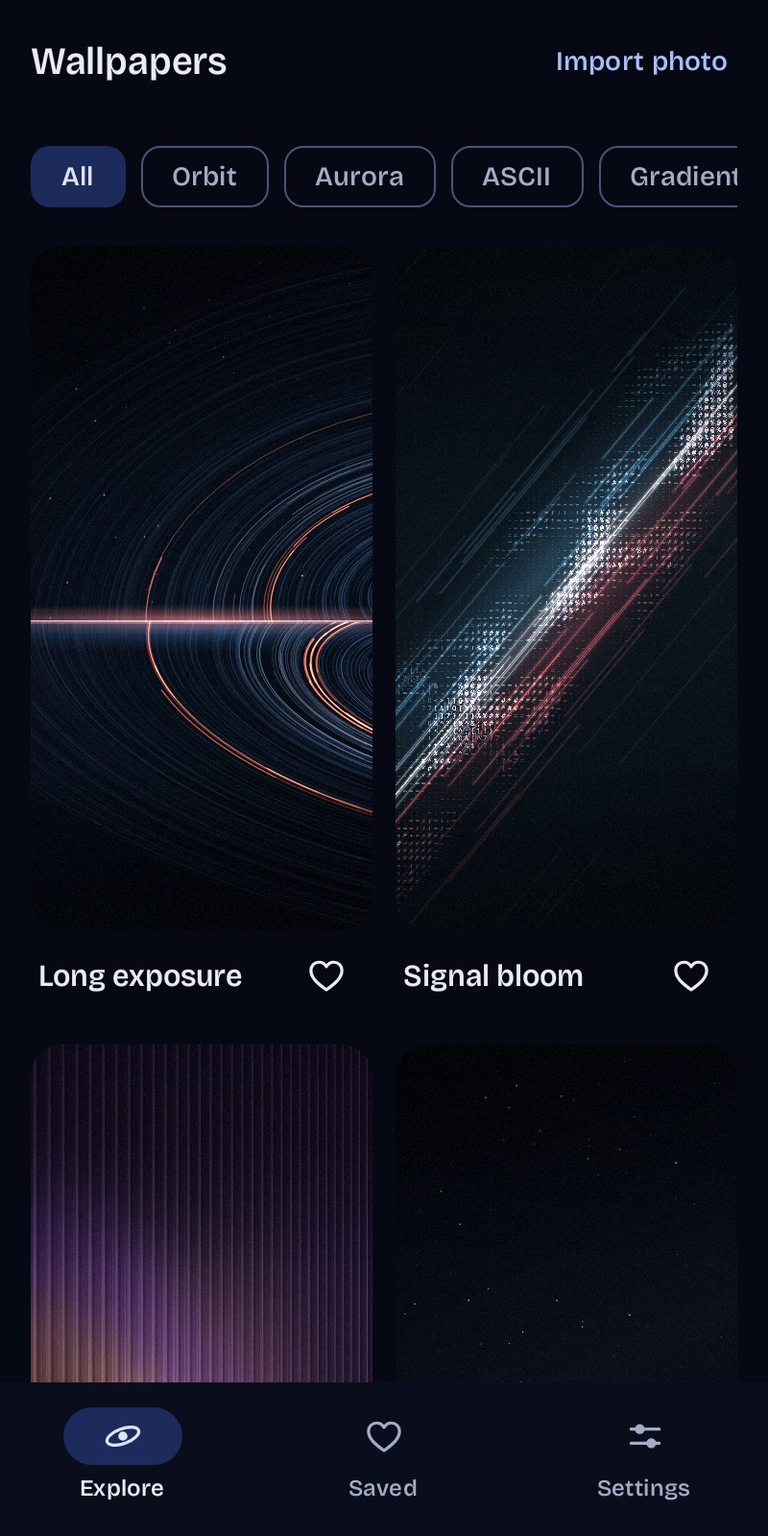
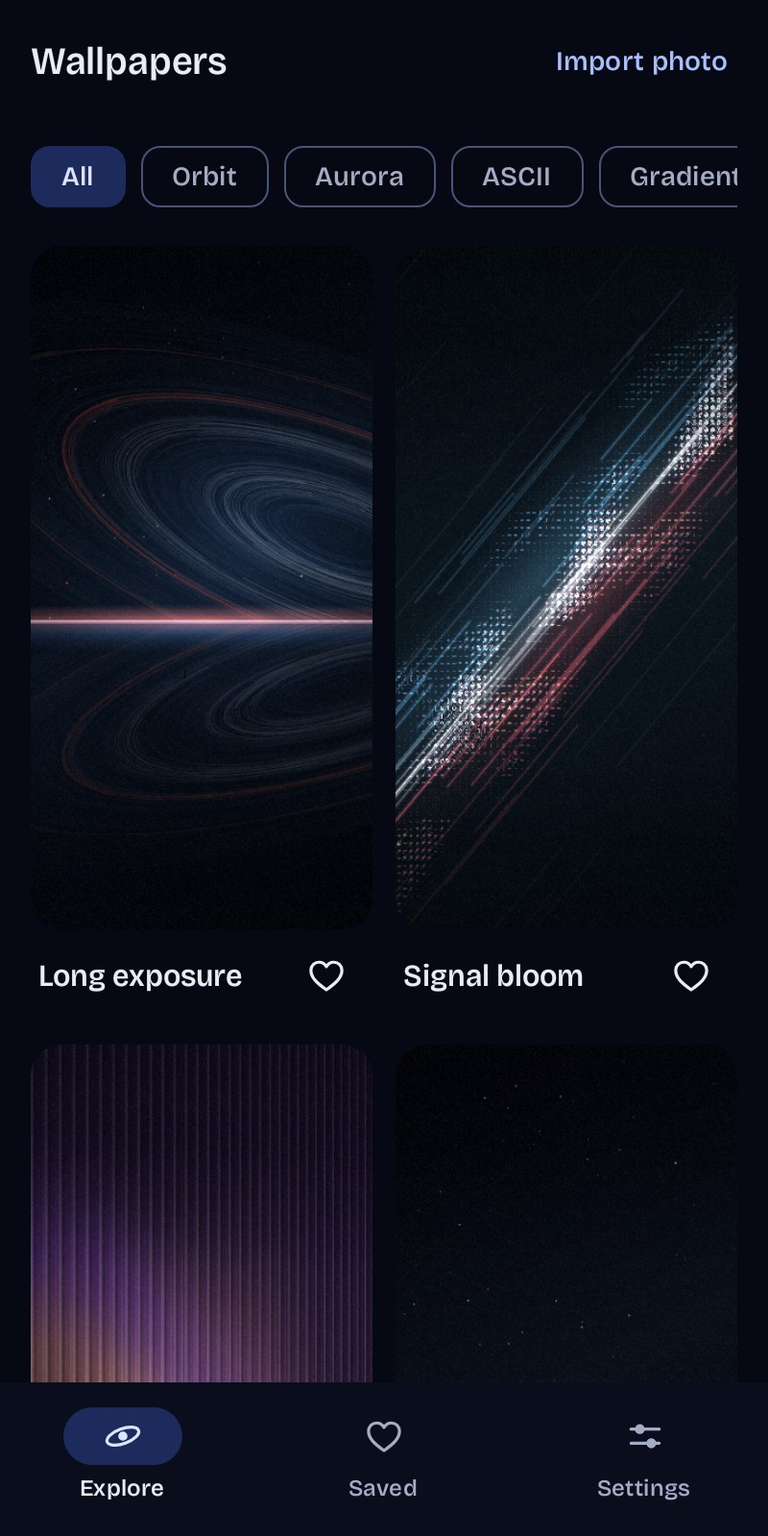
Show the wallpaper workflow in three screenshots and shorten the guides

diff --git a/tools/store_assets.py b/tools/store_assets.py
@@ -37,6 +37,13 @@ def screenshots():
         ("glass-prism-night", PREVIEWS), ("ascii-signal-night", PREVIEWS),
         ("gallery-night", SCREENS), ("gallery-light", SCREENS), ("editor-home-night", SCREENS),
     ]
+    editor = os.path.join(SCREENS, "editor-light.png")
+    if os.path.exists(editor):
+        docs_screens = os.path.join(ROOT, "docs", "screenshots")
+        os.makedirs(docs_screens, exist_ok=True)
+        with Image.open(editor) as image:
+            image.convert("RGB").save(os.path.join(docs_screens, "editor.jpg"), quality=90, subsampling=0, optimize=True)
+
     for index, (name, folder) in enumerate(picks, 1):
         path = os.path.join(folder, name + ".png")
         if not os.path.exists(path):

diff --git a/docs/USER_GUIDE.md b/docs/USER_GUIDE.md
@@ -1,82 +1,49 @@
 # Using Phosphor
 
-[Documentation index](README.md) · [Build and install](GETTING_STARTED.md) · [Android compatibility](ANDROID_COMPATIBILITY.md)
-
 ## Apply a wallpaper
 
-1. Open **Explore** and tap a wallpaper. Use the collection chips to narrow the grid.
-2. Watch the live preview as you adjust the controls. On a phone, use **Expand preview** for a larger view. The home-screen preview button overlays sample icons and labels.
-3. Choose the appearance and motion settings you want, then tap **Set live wallpaper**.
-4. Finish in Android's wallpaper picker and select one of the destinations your phone offers.
+| Explore | Editor | Android picker |
+| --- | --- | --- |
+| Tap a collection, then a wallpaper. | Check the artwork behind sample icons, then tap **Set live wallpaper**. | Choose where to apply it and confirm. |
 
-Editing changes a draft. The active wallpaper keeps its existing settings until the draft is applied. Canceling the system preview leaves the active configuration unchanged.
+<img src="store/screenshots/08-gallery-light.jpg" width="220" alt="Light-theme Explore gallery showing the All, Orbit, Aurora and ASCII filters"> <img src="screenshots/editor.jpg" width="220" alt="Long exposure open in the wallpaper editor">
 
-Some system pickers do not report whether you applied the wallpaper. If you chose Phosphor and the app asks, tap **Save wallpaper settings** to commit the draft. If you canceled the picker, leave that confirmation alone. Home and lock screens share one applied Phosphor configuration; separate designs are not implemented.
+Edits stay in your draft until you apply them. If Android leaves the result unclear, tap **Save wallpaper settings** only after choosing Phosphor in the picker. Home and lock screens share the applied design.
 
-The heart beside a wallpaper's title saves a look immediately. In the editor, **Save look** lets you name a version with its dimming, motion, and photo framing settings. Open a look from **Saved** to adjust it, update it, or save another variation. Saved and Explore remember their own collection filters.
+## Keep a look or a photo
 
-## Rotate saved looks
-
-Save at least two looks, then open **Saved → Rotation**. Choose **Daily** to cycle through selected looks in the numbered order at local midnight. Deselect and reselect a look to move it to the end. Choose **Day and evening** to assign a look and local start time to each period. Tap **Save**, and set Phosphor as your live wallpaper if needed.
-
-Rotation switches while the wallpaper is visible. If the screen is off or another app covers it, the scheduled look appears when you return. Editing a draft leaves the schedule alone. Manually applying a look keeps it until the next scheduled change. Removing a selected look skips it, and turning rotation off keeps the current wallpaper.
-
-## Appearance
-
-| Control | Effect |
+| To… | Use… |
 | --- | --- |
-| Scene control | Changes the composition, such as ring angle in Ringfall, curtain width in Northern veil, or rib spacing in Fluted glass. For photos, Floating lights adjusts the number of motes. |
-| Color palette | Use the original procedural colors or choose Lagoon or Ember. Save a look to keep its palette and composition together. |
-| Calm the artwork | Darkens the wallpaper so icons and widgets stand out. |
+| Bookmark a wallpaper | The heart beside its title in **Explore**. |
+| Keep a tuned version | **Save look** in the editor. Reopen it from **Saved** to update it or **Save a copy**. |
+| Rotate saved looks | Save at least two looks. In **Saved → Rotation**, choose **Daily** to cycle at midnight or **Day and evening** to set two start times. The next look appears when the wallpaper is visible. |
+| Frame a photo | **Explore → Import photo**. Choose a JPEG, PNG, or WebP, then move the target in **Photo framing**. Save the look to keep its crop. |
+| Export the current look | **Save a still image**. Pick a location for the 1080 × 2400 PNG. |
 
-Built-in wallpapers use dark palettes in the gallery, editor, and Android wallpaper picker.
+Phosphor keeps a private copy of each imported photo. Clearing app storage or uninstalling removes these copies and saved looks.
 
-**Settings → App appearance** controls the app's System/Light/Dark theme separately. **Use your phone's colors** applies Material You colors to the app on Android 12+; it does not recolor the wallpaper. Phosphor's own app palette is the default.
+## Tune a scene
 
-## Echo trace and music
+Use the scene slider to change the composition, such as the ring angle in Ringfall or the rib spacing in Fluted glass. Under **Color palette**, choose the original colors, Lagoon, or Ember.
 
-Open **Explore → ASCII → Echo trace**, turn on **Motion → React to music**, and allow Android’s microphone permission. Play music on the device. Bass peaks rise on the left, treble peaks rise on the right, and older peaks trail up the screen. **Trace height** adjusts their size. Tap **Set live wallpaper** to use it on your phone, or **Save look** to keep the setting for rotation.
-
-Phosphor reads frequency levels from Android’s playback visualizer. The levels stay briefly in memory. The preview shows when it receives a signal. During silence or on an unsupported output, Echo trace returns to its ambient animation. Capture pauses when hidden, in Still mode, at zero speed, and while saving battery. Gallery tiles and PNG exports use the ambient artwork.
+For **ASCII → Echo trace**, enable **Motion → React to music** and grant audio permission. Play music to see bass on the left and treble on the right. Android supplies playback frequencies. Silence, gallery thumbnails, and still exports use the ambient design.
 
 ## Motion and battery
 
-| Control | Effect |
+| For this effect | Adjust |
 | --- | --- |
-| Speed | Sets ambient animation speed. Zero holds the scene at its current phase. |
-| Intensity | Changes movement range and artwork detail. |
-| Home-screen parallax | Nearby layers travel farther than distant scenery as the camera drifts. On supported launchers they ease into place after a page swipe. Increase Intensity for a wider sweep. |
-| Tilt parallax | Enable this under Motion to move the viewpoint by tilting your phone from its resting angle. Requires an accelerometer, Home-screen parallax, and Speed above zero. Pauses in battery-saving mode. |
-| Still mode | Holds the artwork and its parallax layers still. |
-| Frame rate | Selects 15, 30, or 60 fps, subject to power and visibility limits. |
-| Light up on wake | Gradually reveals the artwork on screen-on. The replay button previews the wake effect. |
-| Lock and unlock animation | Enables the separate settling/reveal treatment around lock state changes. |
-| Save battery when low | At 20% or less while unplugged, reduces motion and caps at 15 fps; at 5% or less, holds still. |
+| Quieter artwork behind icons | **Calm the artwork** to darken it. |
+| Slower or subtler movement | Lower **Speed** or **Intensity**. **Still mode** freezes the scene. |
+| Depth as you swipe or tilt | Enable **Home-screen parallax**. Add **Tilt parallax** on phones with an accelerometer. Both need motion enabled. |
+| A reveal when the screen wakes | Enable **Light up on wake**. Tap replay to preview it. **Lock and unlock animation** controls the lock transition. |
+| Smoother motion or fewer frames | Choose **15**, **30**, or **60 fps** under **Frame rate**. |
 
-System Battery Saver reduces motion and caps animation at 15 fps even if **Save battery when low** is off. The visible lock screen is also capped at 15 fps. Hidden or screen-off wallpapers stop their animation loop, and Android's disabled-animation preference makes the artwork still. Wake effects can be suppressed while saving energy.
+Battery Saver and the visible lock screen cap animation at 15 fps. With **Save battery when low**, an unplugged phone slows at 20% and holds still at 5%. Animation stops when hidden or screen-off.
 
-These are rendering policies; a battery-life percentage has not been measured. Screen-off/always-on-display visibility and the events delivered on wake depend on your phone.
+## Change colors
 
-## Import your own image
+**Settings → App appearance** changes the app theme. **Use your phone’s colors** follows the Android 12+ system palette. Use the editor’s **Color palette** to recolor a wallpaper.
 
-Tap **Import photo** in Explore and select a JPEG, PNG, or WebP image through Android's document picker. Phosphor stores a bounded, orientation-corrected PNG copy in private app storage, so later losing access to the original document does not break the import.
+For launcher colors, open **Wallpaper & style** on Pixel or **Wallpaper and style → Color palette** on Samsung. If your launcher only offers colors for photos, try applying an exported still, choosing its palette, then reapplying Phosphor.
 
-In **Photo framing**, move the target on the full photo to your subject, or use the horizontal and vertical focus sliders. The live preview shows the crop with room around its edges for drift. The wallpaper layers floating light over the photo. Save a look to keep this image and framing when you import another photo.
-
-Imports stay on the device and are not included in cloud backup. Clearing app storage or uninstalling deletes private copies and settings. Keep your original images elsewhere if you want to retain them.
-
-## Export a still
-
-In the editor, tap **Save a still image** and select a destination in Android's document picker. Phosphor writes a watermark-free **1080 × 2400 PNG** at a fixed animation time using your current settings and photo framing.
-
-## Phone colors and common limitations
-
-Phosphor supplies representative wallpaper colors and light/dark hints to Android. Your phone and launcher decide how to use them for labels, palettes, and themed icons.
-
-- **Pixel:** look in **Wallpaper & style** for palette options.
-- **Samsung:** look in **Wallpaper and style → Color palette**. A Galaxy Themes package is a separate format and is not included.
-- **No live wallpaper palette offered:** try exporting a still and choosing a palette from it, then reapply Phosphor. This is a manual workaround and may not persist on every firmware.
-- **Checking depth on a single-page launcher.** Enable **Home-screen parallax**, turn off Still mode, and set Speed above zero to see the ambient drift. Page-to-page movement also requires a launcher that supplies scrolling offsets.
-- **No independent lock-screen option:** use the destinations the system picker provides.
-
-See [Android compatibility](ANDROID_COMPATIBILITY.md) for detailed behavior. For a reproducible problem, use the [bug report checklist](../CONTRIBUTING.md#report-a-bug).
+[Android compatibility](ANDROID_COMPATIBILITY.md) · [Build and install](GETTING_STARTED.md) · [Documentation index](README.md)

diff --git a/README.md b/README.md
@@ -1,63 +1,25 @@
 # Phosphor
 
-Living color for Android. An offline, open-source live wallpaper app [made by sush.dev](https://sush.dev?utm_source=phosphor).
+An offline live wallpaper studio for Android. Choose from 17 animated designs, or give one of your photos a gentle drift.
 
-![Phosphor Afterglow mark: a violet light trail doubles back in ember orange against midnight blue](docs/store/feature-graphic-1024x500.jpg)
+| Browse the collection | Tune the wallpaper | Preview behind icons |
+| :---: | :---: | :---: |
+| [<img src="docs/store/screenshots/07-gallery-night.jpg" width="240" alt="Explore gallery with wallpaper tiles and collection filters">](docs/store/screenshots/07-gallery-night.jpg) | [<img src="docs/screenshots/editor.jpg" width="240" alt="Wallpaper editor with a live preview and appearance controls">](docs/screenshots/editor.jpg) | [<img src="docs/store/screenshots/09-editor-home-night.jpg" width="240" alt="Expanded wallpaper preview with sample home-screen icons">](docs/store/screenshots/09-editor-home-night.jpg) |
 
-Phosphor draws its wallpapers on your phone: long-exposure orbits, aurora curtains, beams of characters, gradients, glass, filaments, and etched textures. Each procedural wallpaper uses a dark palette.
+Open **Explore**, tap a design, then choose **Set live wallpaper**. Android’s picker lets you choose where to apply it. **Save look** keeps your palette and tuning for later or for a rotation. **Save a still image** exports a 1080 × 2400 PNG.
 
-## What you can do
+## Run it
 
-- Choose from **17 procedural presets across seven collections**, or frame an imported photo and give it gentle drift and floating light.
-- Adjust each scene’s composition and choose a color palette. Tune speed, intensity, frame rate, and how far the artwork fades into its background. Check the result in a live preview with an optional home-screen overlay.
-- Watch the scenes drift on their own. Foreground layers travel farther as you swipe between home screens. Enable Tilt parallax under Motion to move the viewpoint by tilting your phone, even on a single home screen.
-- Use wake reveals, lock and unlock animation, or still mode.
-- Save favorites, keep tuned looks with their settings and photo framing, and export a **1080 × 2400 PNG** in the selected treatment.
-- Enable **React to music** on Echo trace to turn local playback frequencies into a scrolling ASCII waterfall. Android asks for audio permission when you enable it.
-- Rotate selected saved looks daily, or choose separate looks and start times for day and evening.
-- Keep rendering bounded: animation stops while hidden or screen-off, the visible lock screen is capped at 15 fps, and battery policies reduce motion at low charge.
-
-No account, ads, analytics, network permission, broad photo-library permission, or cloud backup. Images are imported through Android's document picker and copied to private app storage. The optional creator link opens in your browser.
-
-## Try it
-
-Phosphor requires **Android 8.1 (API 27) or newer** and a device that supports live wallpapers. It targets API 36. Build and install a debug APK using the [getting started guide](docs/GETTING_STARTED.md), then follow the [user guide](docs/USER_GUIDE.md) to apply a wallpaper.
-
-Pixel and Samsung One UI are intended targets. Wallpaper destinations, palette choices, and lock-screen behavior depend on the OS and launcher. See [Android compatibility](docs/ANDROID_COMPATIBILITY.md) for supported behavior and device checks; implementation support does not mean every device has been tested.
-
-## Build from source
-
-Use **JDK 17**, Android SDK **Platform 36**, and **Build Tools 35.0.0**. The checked-in wrapper supplies Gradle 8.13. Set `JAVA_HOME` to your JDK and `ANDROID_HOME` to your SDK, or configure the SDK in an untracked `local.properties`.
-
-From the repository root on macOS/Linux:
+Connect an **Android 8.1+** device with live wallpaper support. Build with **JDK 17**, **Android SDK 36**, and **Build Tools 35.0.0**.
 
 ```sh
-./gradlew testDebugUnitTest lintDebug assembleDebug
+./gradlew installDebug
 ```
 
-On Windows PowerShell:
+On Windows, use `.\gradlew.bat installDebug`. [Setup and troubleshooting](docs/GETTING_STARTED.md) · [Debug APKs from main](docs/RELEASING.md#debug-apks-from-main)
 
-```powershell
-.\gradlew.bat testDebugUnitTest lintDebug assembleDebug
-```
+[User guide](docs/USER_GUIDE.md) · [Architecture](docs/ARCHITECTURE.md) · [Testing](docs/TESTING.md) · [All docs](docs/README.md) · [Contributing](CONTRIBUTING.md)
 
-The APK is written to `app/build/outputs/apk/debug/app-debug.apk`. The first build needs internet access to download Gradle and dependencies; the installed app works offline. See [setup and troubleshooting](docs/GETTING_STARTED.md) for SDK installation, Android Studio, and device installation.
+Phosphor works without an account, ads, analytics, or network permission. Imported photos stay in private app storage.
 
-## Documentation
-
-| If you want to… | Read |
-| --- | --- |
-| Build, run, or fix a local setup | [Getting started](docs/GETTING_STARTED.md) |
-| Apply, customize, import, or export a wallpaper | [User guide](docs/USER_GUIDE.md) |
-| Find your way around the code | [Architecture](docs/ARCHITECTURE.md) |
-| Run tests or generate previews and store assets | [Testing](docs/TESTING.md) |
-| Submit a fix, new preset, or bug report | [Contributing](CONTRIBUTING.md) |
-| Prepare a version, sign a build, or tag a release | [Releasing](docs/RELEASING.md) |
-
-The [documentation index](docs/README.md) also links the design system, platform checklist, and historical validation results.
-
-## Artwork and licensing
-
-The source code and original procedural artwork are [MIT licensed](LICENSE). Bricolage Grotesque is bundled under the [SIL Open Font License 1.1](app/src/main/assets/licenses/bricolage-grotesque-OFL.txt).
-
-`ref-img/` contains tracked inspiration images, but is outside Android's source sets and is not packaged in the app. Those files have no accompanying redistribution licenses; the repository's MIT license does not grant rights to them or to personal imports. Do not use them in distributed app or store assets without establishing permission. Contributed third-party assets need provenance and a compatible license.
+Made by [sush.dev](https://sush.dev?utm_source=phosphor). [Code and original artwork (MIT)](LICENSE) · [Bricolage Grotesque (OFL)](app/src/main/assets/licenses/bricolage-grotesque-OFL.txt). Reference images in `ref-img/` and personal imports are outside the MIT grant.

diff --git a/docs/ARCHITECTURE.md b/docs/ARCHITECTURE.md
@@ -14,7 +14,7 @@ Paths below are relative to [`app/src/main/java/dev/sush/phosphor/`](../app/src/
 | Models | [`model/WallpaperModels.kt`](../app/src/main/java/dev/sush/phosphor/model/WallpaperModels.kt) defines settings, scene families, and the dark preset catalog. |
 | App flow | [`ui/PhosphorApp.kt`](../app/src/main/java/dev/sush/phosphor/ui/PhosphorApp.kt) coordinates navigation, favorites, drafts, and document/system picker results. |
 | Screens | `ui/Gallery.kt`, `ui/Editor.kt`, and `ui/SettingsScreen.kt` provide browsing, editing, and app preferences. |
-| Preview | [`ui/WallpaperPreview.kt`](../app/src/main/java/dev/sush/phosphor/ui/WallpaperPreview.kt) hosts animated Canvas previews and cached gallery stills. |
+| Preview | [`ui/WallpaperPreview.kt`](../app/src/main/java/dev/sush/phosphor/ui/WallpaperPreview.kt) hosts the editor preview. [GalleryThumbnail.kt](../app/src/main/java/dev/sush/phosphor/ui/GalleryThumbnail.kt) loads stills for Explore and Saved. |
 | Artwork | [`render/WallpaperRenderer.kt`](../app/src/main/java/dev/sush/phosphor/render/WallpaperRenderer.kt) resolves settings and dispatches to scene functions. `RenderKit.kt` supplies shared drawing helpers and frame inputs. |
 | Motion | The renderer combines elapsed scene time and launcher offsets. `platform/WallpaperReveal.kt` tracks lock/unlock transitions. |
 | Platform | [`platform/PhosphorWallpaperService.kt`](../app/src/main/java/dev/sush/phosphor/platform/PhosphorWallpaperService.kt) owns Android engines, surfaces, wallpaper colors, and lifecycle handling. |
@@ -28,13 +28,15 @@ Other useful locations are [`app/src/test/`](../app/src/test) for JVM tests, [`a
 
 `WallpaperSettings` is an immutable snapshot. `WallpaperCatalog` resolves stable preset IDs; unknown IDs fall back to the first preset. Existing IDs must remain stable or be migrated because settings and favorites persist them.
 
-The normal apply flow is:
+```mermaid
+flowchart LR
+    Explore["Preset or saved look"] --> Draft["Editor draft"]
+    Draft -->|Set live wallpaper| Picker["Android picker"]
+    Picker -->|Apply| Active["Active wallpaper"]
+    Picker -->|Cancel| Draft
+```
 
-1. Selecting a catalog preset creates a draft based on the active settings. Selecting a saved look restores its snapshot. Editor changes are saved under the `preview` key in the `phosphor` preferences.
-2. The app preview and an Android engine with `isPreview == true` read the draft. Active engines read the `active` key.
-3. **Set live wallpaper** saves the draft and opens Android's direct preview, with a general live-wallpaper chooser fallback.
-4. On API 36, the engine's `onApplyWallpaper` commits the draft. The app also commits a successful direct picker result; a picker without a reliable result leaves a manual confirmation path.
-5. A settings listener reloads the appropriate snapshot and refreshes rendering/colors. Canceling without confirmation leaves active settings intact.
+Android’s preview engine reads the draft. The applied engine listens to active settings. On API 36, `onApplyWallpaper` commits the draft. A successful direct picker result also commits it. Pickers with an ambiguous result leave a **Save wallpaper settings** action in the editor.
 
 `SettingsStore` encodes and decodes settings, including bounded image focus coordinates. Active and draft settings with a retired preset ID render Long exposure with the existing tuning. `platform/SavedLooks.kt` uses the same codec for named snapshots and migrates legacy favorite IDs on first load. Saved looks retain their original preset IDs, and the gallery skips looks whose artwork is unavailable. Saved looks, app theme, dynamic color, and the latest import live in `phosphor_ui`. `LookRotation` resolves saved look IDs into local calendar intervals. A visible, interactive live engine schedules a callback for the next boundary and writes the selected snapshot and interval stamp together. Preview engines only read the draft.
 
@@ -44,7 +46,7 @@ The normal apply flow is:
 
 Each live wallpaper engine owns its renderer, elapsed phase, and launcher offsets. The system preview and applied wallpaper can render independently.
 
-The editor uses an animated view. Gallery tiles cache a still bitmap, invalidating when content, treatment, or dimensions change, so scrolling does not continually replay procedural drawing. Exports create a temporary renderer and bitmap and release both after writing. Rendering uses a hardware Canvas when available, with a software fallback.
+The editor draws live frames in a View. Gallery tiles share a byte-limited bitmap cache keyed by preset, settings, and thumbnail size. A single background worker renders cache misses. Exports draw at full size with a temporary renderer.
 
 ## Scheduling, power, and cleanup
 

diff --git a/docs/README.md b/docs/README.md
@@ -1,27 +1,10 @@
 # Phosphor documentation
 
-Return to the [project overview](../README.md).
+| Use the app | Work on the app | Ship a release |
+| --- | --- | --- |
+| [Build and install](GETTING_STARTED.md) | [Architecture and data flow](ARCHITECTURE.md) | [Release and signing guide](RELEASING.md) |
+| [Wallpaper and photo guide](USER_GUIDE.md) | [Design system](DESIGN_SYSTEM.md) | [Changelog](../CHANGELOG.md) |
+| [Android and launcher compatibility](ANDROID_COMPATIBILITY.md) | [Motion and rendering decisions](DESIGN_PRINCIPLES.md) | [Validation history](VALIDATION.md) |
+| | [Tests and screenshot generation](TESTING.md) | |
 
-## Build and use
-
-- [Getting started](GETTING_STARTED.md): prerequisites, SDK setup, building, installation, and troubleshooting.
-- [User guide](USER_GUIDE.md): applying a wallpaper, appearance and motion controls, imports, exports, and common device limitations.
-
-## Develop and maintain
-
-- [Contributing](../CONTRIBUTING.md): change workflow, artwork requirements, bug reports, and asset licensing.
-- [Architecture](ARCHITECTURE.md): source map, shared rendering, draft/active settings, engine lifecycle, and local data.
-- [Testing](TESTING.md): automated checks, reports, opt-in screenshots, store asset generation, and manual validation.
-- [Releasing](RELEASING.md): versions, signing, tags, CI artifacts, and distribution.
-- [Changelog](../CHANGELOG.md): changes grouped by app version.
-
-## Design and platform behavior
-
-- [Design system](DESIGN_SYSTEM.md): color, typography, spacing, icons, motion, and wallpaper readability.
-- [Design and motion decisions](DESIGN_PRINCIPLES.md): rationale for layout, interaction, scheduling, and battery policies.
-- [Android compatibility](ANDROID_COMPATIBILITY.md): wallpaper colors, system picker behavior, manufacturer limits, and the physical-device checklist.
-- [Validation history](VALIDATION.md): recorded results from earlier builds, including checks still outstanding. It is a historical record, not a statement that the current commit passed those checks.
-
-## Update the docs with the implementation
-
-Keep setup requirements aligned with the Gradle files and [Android workflow](../.github/workflows/android.yml), control names aligned with the UI, and validation claims tied to a date and commit. Put repeatable commands in the testing guide and observed results in the validation history. Link new guides here so readers can find them.
+[Project overview](../README.md) · [Contributing](../CONTRIBUTING.md)

diff --git a/docs/DESIGN_PRINCIPLES.md b/docs/DESIGN_PRINCIPLES.md
@@ -29,7 +29,7 @@ See [Compose animation APIs](https://developer.android.com/develop/ui/compose/an
 - Cap visible lock-screen motion at 15 fps, including while charging. Restore the selected rate on unlock. Coalesce launcher scroll events with animation requests.
 - Refresh power and keyguard state on broadcasts and visibility changes, rather than querying system services during each frame. Battery broadcasts only redraw when the effective power policy changes. Hidden editor previews unregister their observers and cancel frame callbacks using [aggregated View visibility](https://developer.android.com/reference/android/view/View#onVisibilityAggregated(boolean)).
 - Reuse renderer scratch geometry and stable shaders. Orbit caches seeded trail coefficients and culls invisible arcs. ASCII traces reuse their crest buffer, and background gradients stay cached until their palette or size changes.
-- Cache gallery artwork as one bitmap per visible tile. Invalidate it when content or size changes to avoid repeated procedural drawing while browsing. Release temporary renderer resources after drawing the still and leave bitmap lifetime to Android while display lists may still reference it.
+- Render gallery stills off the UI thread. Share a byte-limited cache across tiles so scrolling back can reuse a frame. Leave bitmap lifetime to Android while display lists may reference it.
 
 Sources: [battery monitoring](https://developer.android.com/training/monitoring-device-state/battery-monitoring), [PowerManager](https://developer.android.com/reference/android/os/PowerManager), [KeyguardManager](https://developer.android.com/reference/android/app/KeyguardManager), and [WallpaperService.Engine](https://developer.android.com/reference/android/service/wallpaper/WallpaperService.Engine).
 

diff --git a/docs/VALIDATION.md b/docs/VALIDATION.md
@@ -6,12 +6,12 @@ This file preserves results reported for earlier commits and branches. Counts, w
 
 ## Gallery scrolling
 
-On 2026-11-20, two debug builds of the 14-preset catalog ran on the same Android 16 emulator at 1080 × 2400 with host RTX 4060 graphics and ART speed compilation. Each run opened Explore in a fresh process, waited three seconds, reset `dumpsys gfxinfo`, then swiped five times down the gallery and five times back. Each swipe lasted 350 ms. Values are medians of three runs per build.
+On 2026-11-21, two debug builds of the 17-preset catalog ran on the same Android 16 emulator at 1080 × 2400 with host RTX 4060 graphics and ART speed compilation. Each run opened Explore in a fresh process, waited three seconds, reset `dumpsys gfxinfo`, then swiped five times down the gallery and five times back. Each swipe lasted 350 ms. Values are medians of three runs per build.
 
 | Explore gallery | Janky frames | 95th-percentile frame time |
 | --- | ---: | ---: |
-| Baseline (`15b8062`) | 35.1% | 250 ms |
-| Background thumbnails with a shared cache | 3.7% | 30 ms |
+| Baseline (`58d21b3`) | 17.2% | 133 ms |
+| Background thumbnails with a shared cache (`860c7f7`) | 4.1% | 30 ms |
 
 ## Echo trace playback visualization
 

diff --git a/docs/TESTING.md b/docs/TESTING.md
@@ -97,6 +97,7 @@ py -3 -m venv .tools/store-venv
 - `docs/store/play-icon-512.png` — a 512 × 512 icon from the adaptive icon layers.
 - `docs/store/feature-graphic-1024x500.jpg` — the lettering-free Afterglow feature graphic.
 - `docs/store/screenshots/` — nine selected JPEGs, cropped to a maximum 2:1 long/short-side ratio.
+- [Editor screenshot](screenshots/editor.jpg) for the README and user guide.
 
 The builder does not clear stale files and can skip missing screenshot inputs. Check its output and inspect every intended asset before committing. Generated reports stay under ignored build directories; `docs/store/` contains tracked distribution assets. No `ref-img/` files are used.
 
